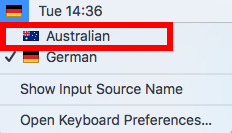
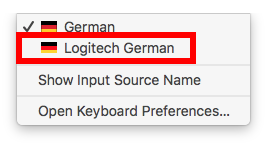
Die Auswahl des richtigen tastaturtyp auf den Bildern hinzugefügt, sowie in der keyboardlayout.md ergänzt, kleine änderung an der articles.json datei für einen Nutzerfreundlicheren Artikelnamen

diff --git a/articles/en/keyboardlayout.md b/articles/en/keyboardlayout.md
@@ -1,5 +1,5 @@
 # How to change Your keyboard layout
-* First click on the search icon in the upper left corner and type "keyboard" into the prompt
+* First click on the search icon in the upper right corner and type "keyboard" into the prompt
 
   ![search.png](../../img/article_keyboard_search.png)
 
@@ -13,13 +13,13 @@
 
   ![selcetion.png](../../img/article_keyboard_selection.png)
 
-* Type in Your language. In this example "Australian"
+* Type in "Logitech" and select the german version of this keyboard.
 
   ![keyboardtype.png](../../img/article_keyboard_keyboardtype.png)
 
   ![example.png](../../img/article_keyboard_example.png)
 
-* After you added Your language to the active keyboard layouts, click the flag in the upper left corner and select your keyboard layout from the available layouts, in this example "Australian"
+* After you added the Logitech Layout as a active keyboard layout, click the flag in the upper right corner and select the keyboard layout from the available layouts
 
   ![example1.png](../../img/article_keyboard_example1.png)
 

diff --git a/articles/de/keyboardlayout.md b/articles/de/keyboardlayout.md
@@ -1,5 +1,5 @@
 # Tastaturlayout ändern
-* Auf das Such-Icon im oberen rechten Bereich des Bildschirm klicken und in die Suchzeile "Tastatur" 	eingeben
+* Auf das Such-Icon im oberen rechten Bereich des Bildschirm klicken und in die Suchzeile "Tastatur" eingeben
 
   ![Suchen.png](../../img/article_keyboard_Suchen.png)
 
@@ -14,7 +14,7 @@
 
 	![auswahl.png](../../img/article_keyboard_auswahl.png)
 
-* Dort den Tastaturtyp in Form der Landessprache eingeben, in diesem Beispiel "Deutsch" und die "Österreichisch" Tastatur auswählen und hinzugfügen
+* Dort den Tastaturtyp "Logitech" eingeben und das Deutsche Logitech Tastaturlaout hinzufügen
 
 	![beispiel.png](../../img/article_keyboard_beispiel.png)
 
@@ -26,8 +26,9 @@
 
 	![beispiel2.png](../../img/article_keyboard_beispiel2.png)
 
-* Um den anderen Tastaturtyp zu verwenden, den Reiter der Tastatur anklicken, hier "Österreichisch"
+* Um den anderen Tastaturtyp zu verwenden, den Reiter der Logitech Tastatur anklicken.
 
 	![beispiel3.png](../../img/article_keyboard_beispiel3.png)
+
 
 
